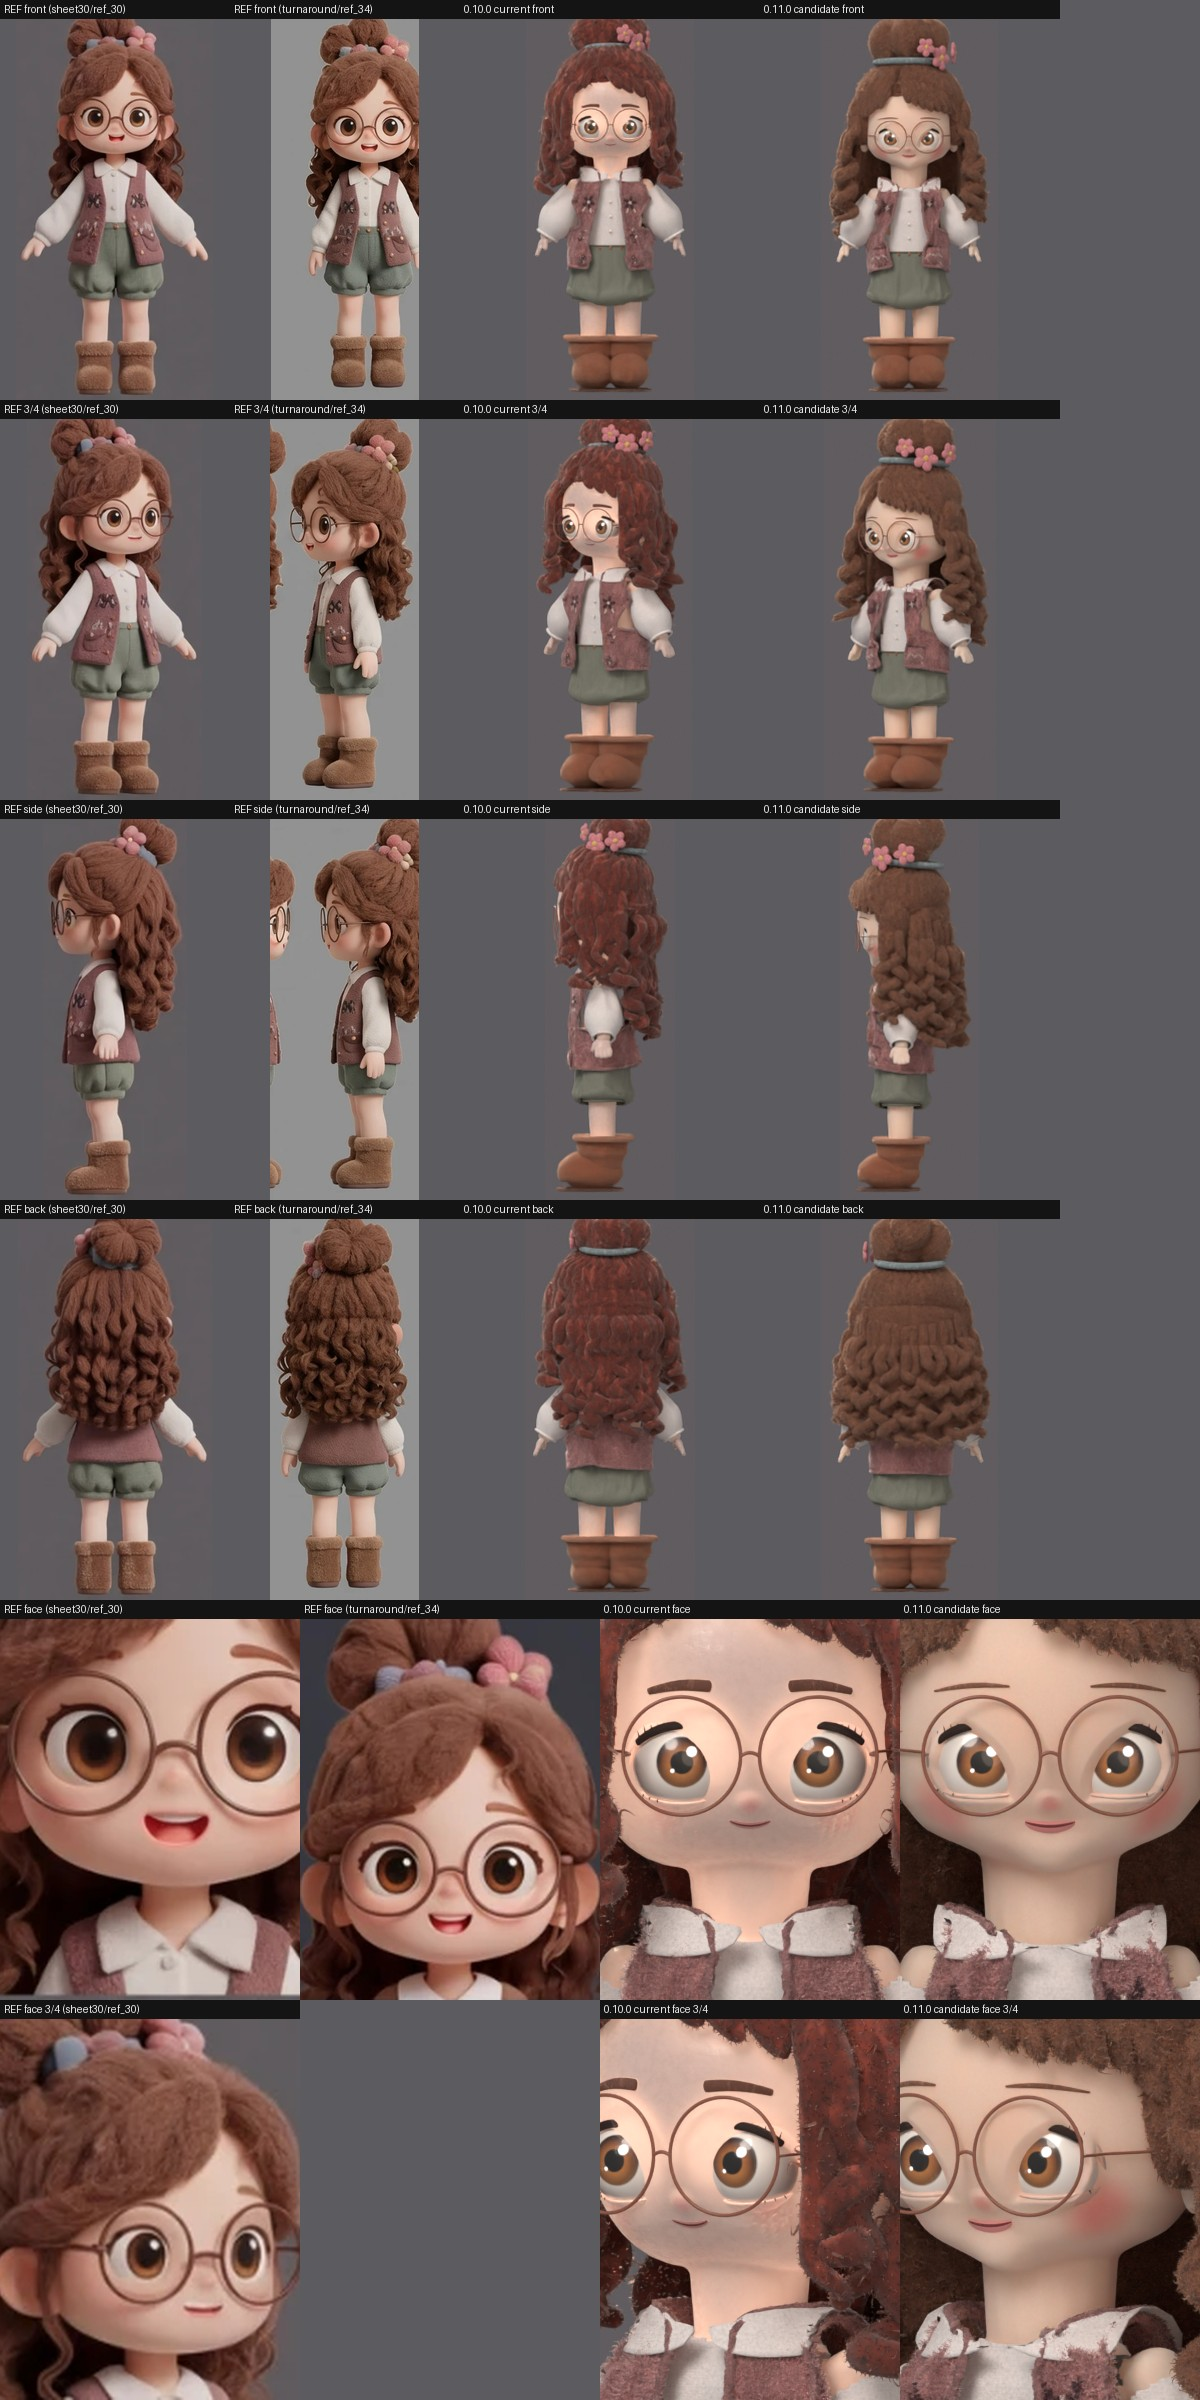
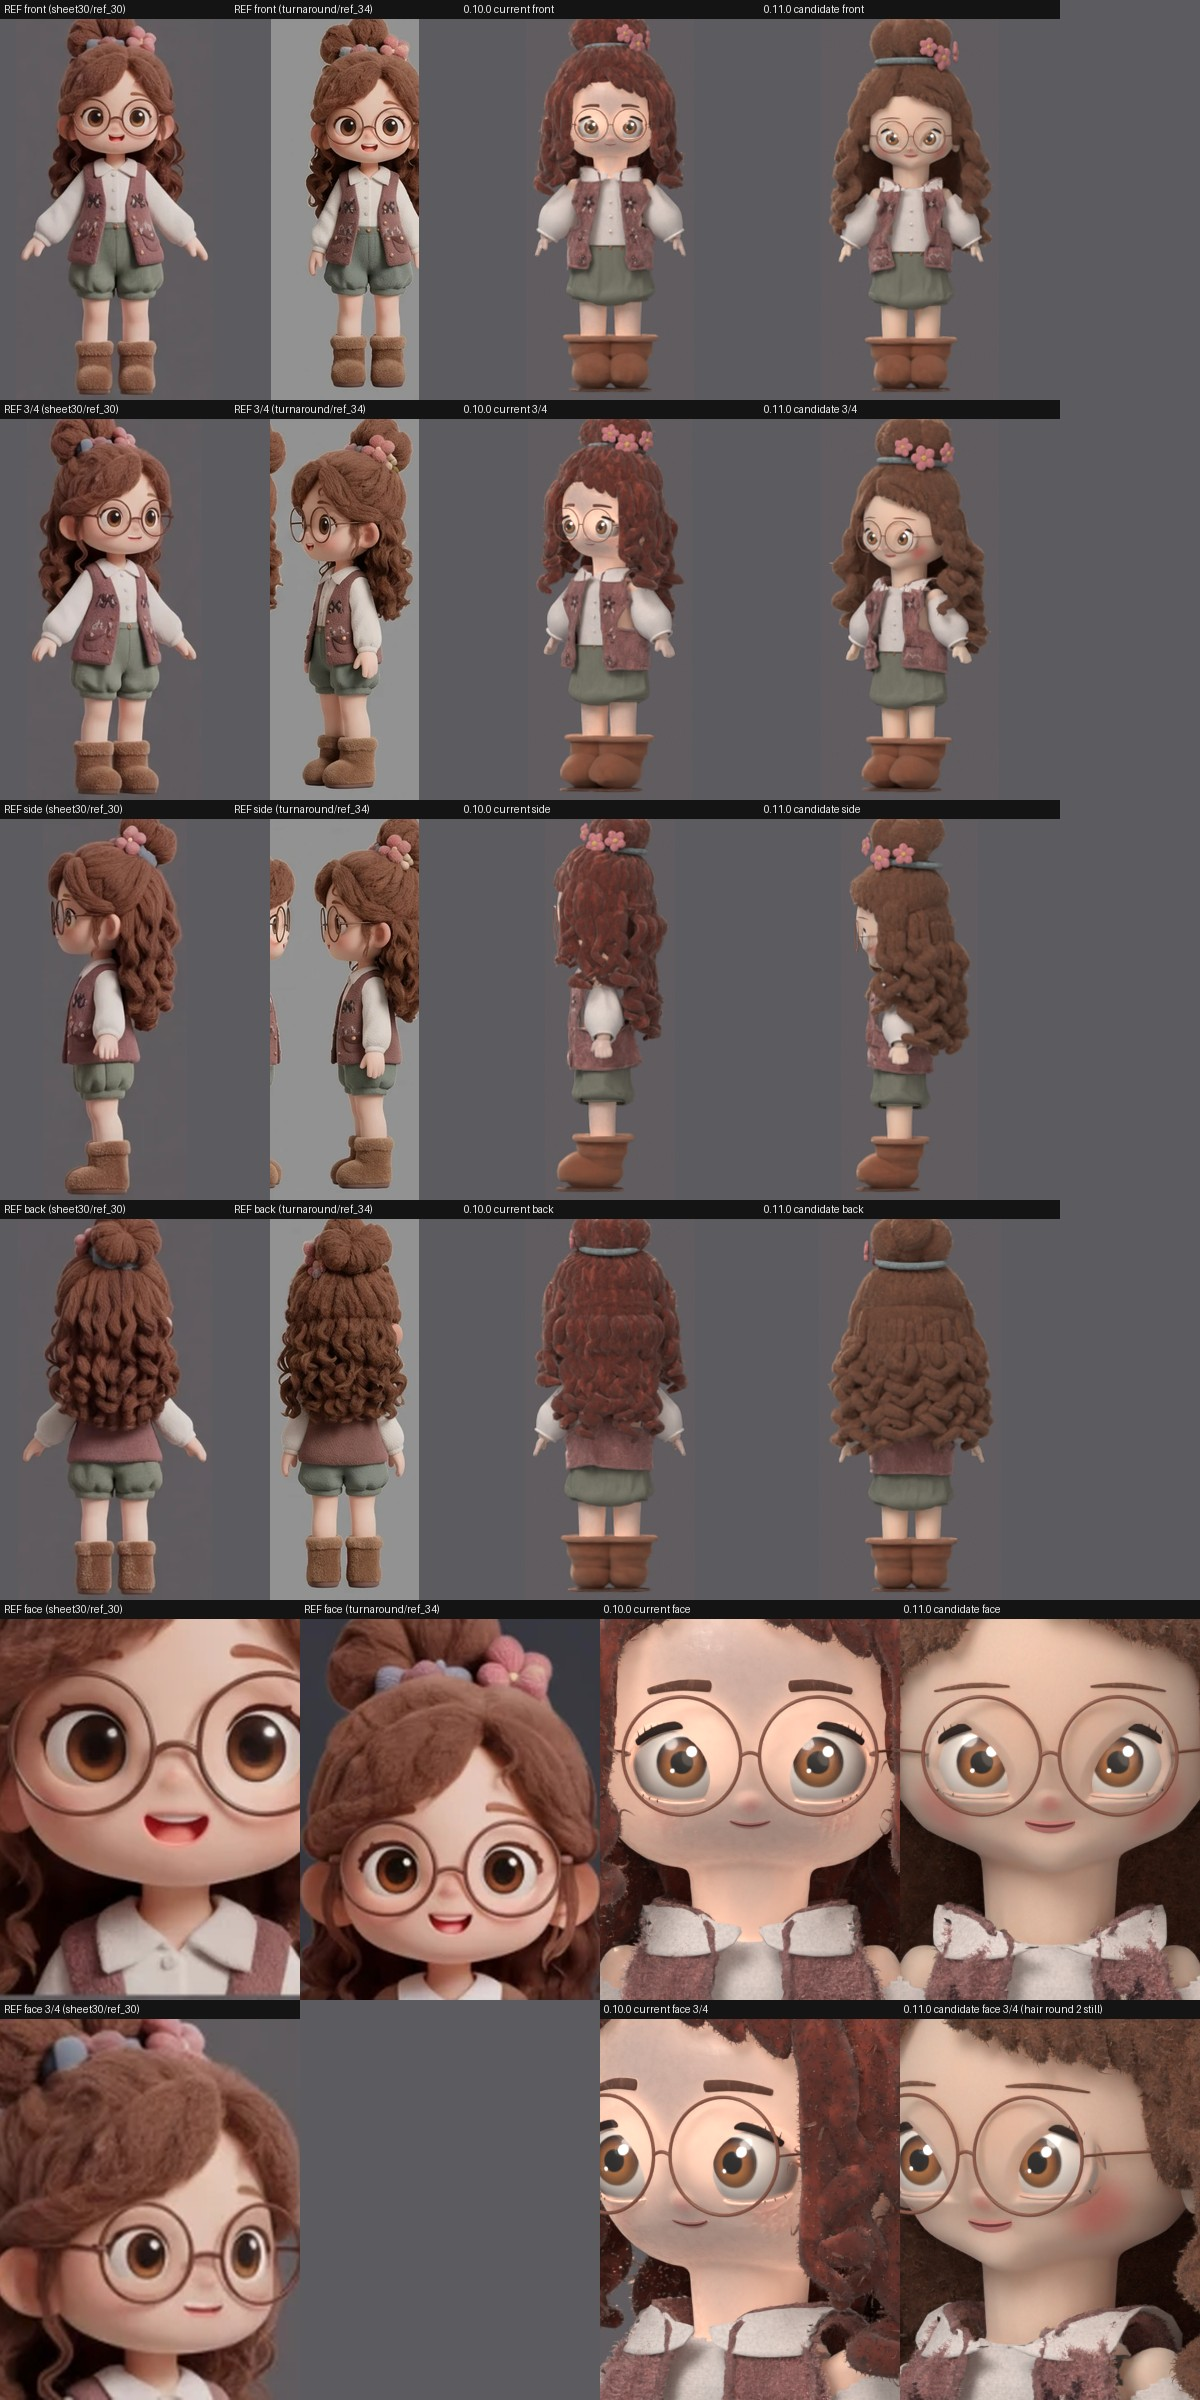
T-081: round-3 hair renders, owner sheet and report update
Claude-Session: https://claude.ai/code/session_01NPjxeKajuS9wU7Awxbsxse

diff --git a/docs/evaluation/characters/T-081/tools/make_sheet.py b/docs/evaluation/characters/T-081/tools/make_sheet.py
@@ -46,6 +46,7 @@ def label(im, text):
 
 def main():
     cur, new, out = sys.argv[1:4]
+    notes = dict(a.split("=", 1) for a in sys.argv[4:] if "=" in a)  # optional <shot>=<label suffix>
     turn = Image.open(TURN)
     tw = turn.width / 6.0  # girl row: bottom third, six columns (front, back-left, left, right, front-right, back)
     girl_row = [turn.crop((int(i * tw), 1330, int((i + 1) * tw), 2000)) for i in range(6)]
@@ -69,7 +70,7 @@ def main():
             im = Image.open(p) if os.path.exists(p) else None
             if im is not None and shot.startswith("body"):
                 im = autocrop(im)
-            row.append(label(fit(im, w=300) if im is not None else Image.new("RGB", (H, H), (60, 0, 0)), f"{tag} {name}"))
+            row.append(label(fit(im, w=300) if im is not None else Image.new("RGB", (H, H), (60, 0, 0)), f"{tag} {name}" + (f" {notes[shot]}" if tag.startswith("0.11") and shot in notes else "")))
         tiles.append(row)
     w = max(sum(t.width for t in r) for r in tiles)
     sheet = Image.new("RGB", (w, H * len(tiles)), (92, 92, 96))

diff --git a/docs/evaluation/characters/T-081/README.md b/docs/evaluation/characters/T-081/README.md
@@ -7,7 +7,7 @@ geometry iteration only; they are not evidence.
 
 ## 1. Objective
 A new girl version `0.11.0` that combines every approved improvement: face v2 with the fitted head, skin presets/2,
-hair v3 round 2, vest details and the personality profile. It also fixes the sharp cheek folds and applies the T-059
+hair v3 round 3 (T-079; the Supervisor asked for it in place of round 2), vest details and the personality profile. It also fixes the sharp cheek folds and applies the T-059
 targets the systems now allow. Approved 0.10.0 stays unchanged and stays the current version.
 
 ## 2. Result
@@ -27,10 +27,17 @@ Rows:
 - face close-up. References: the ref_30 "Neutral" tile and the ref_34 "Neutral" tile.
 - face 3/4. Reference: the ref_30 front-left view.
 
-Single stills: `renders/0.10.0/*.jpg` and `renders/0.11.0/*.jpg`. Both versions were rendered the same way: 400 px,
+Single stills: `renders/0.10.0/*.jpg` and `renders/0.11.0/*.jpg` (round-3 hair). Both versions were rendered the same way: 400 px,
 16 spp, orthographic, with `tools/render_views.py`.
 
-**Cycles stills used: 19 of 24.** That is 1 iteration close-up, 12 sheet stills (6 per version) and 5 fidelity views.
+**Cycles stills used: 24 of 24.**
+- 1 iteration close-up.
+- 12 sheet stills with hair round 2 (6 per version).
+- 5 fidelity views (round 2).
+- 5 round-3 stills for 0.11.0: 4 body views and the face front.
+
+The 0.11.0 **face 3/4 tile is the round-2 still** (labelled on the sheet); the budget had no still left for it.
+The round-2 stills of 0.11.0 are kept in `renders/0.11.0_hair_round2/`.
 
 ## 4. Files changed
 | Path | Purpose |
@@ -54,7 +61,7 @@ Merge order, later wins:
 3. T-065 `girl_next_face2.override`
 4. T-066 `girl_auburn_bun_glasses.skin2.override`
 5. T-068 `girl.vest_details.override`
-6. T-070 `girl.hair_v3.json` (its `overrides`)
+6. T-079 round-3 `girl.hair_v3.json` (its `overrides`), from branch `t-079-claude-hair-v3-r3@7d3c424`, which is not yet in staging. It is copied byte-for-byte to `inputs/girl.hair_v3_r3.json`; identical at 860f855 and 7d3c424.
 7. the T-081 choices
 
 The result is written by `tools/make_spec.py`.
@@ -62,7 +69,7 @@ The result is written by `tools/make_spec.py`.
 - **Why a complete `.spec.json`, not an override:** `spec.deep_merge` can only add or replace keys. The base spec's
   groom/1 hair has dynamics entries for structures that groom/2 no longer has (`temple_puffs`, `side_curls`, …).
   groom/2 validation rejects them, so an override on top of the base cannot build. The hair section is therefore
-  replaced as a whole by the T-070 hair, keeping the descriptive `components`.
+  replaced as a whole by the T-079 hair, keeping the descriptive `components`.
   - `fidelity_baseline.json`-style use: `build` = the 0.11.0 spec, no overrides.
 - **Generator pins:**
   - `body_generic/2`, `face_generic/2`, `groom/2`, `garment/1`, `accessories/1`, `rigify_human/1`, `export/4`.
@@ -78,7 +85,7 @@ The result is written by `tools/make_spec.py`.
 | rest mouth | 0.10.0 `closed_smile` (frown −4.2 mm) vs T-065 `soft_smile` + rest_mix (MouthSmile 0.35, CheekRaise 0.8, frown −2.5 mm) | **soft_smile** (lips closed, no teeth/tongue; MouthWide 0) | owner decision "closed gentle smile at rest **with lifted cheeks**"; T-059 asks for cheeks lifted at rest; ref_34 Neutral |
 | skin occlusion | T-065 lift 0.35 / bleed 0.2 vs T-066 lift 1.1 to warm (248,210,190) / bleed 0 | **T-066** | T-066 is the approved skin family and is non-emissive (no glowing creases) |
 | blush | 0.9.0/T-065 vs T-066 | **T-066** (warmer, lower, out from the rims) | ref_30/ref_34 blush below the glasses rims |
-| hair | base groom/1 vs T-070 groom/2 round 2 | **T-070 round 2** in full | task (round 3, T-079, follows as 0.11.1) |
+| hair | base groom/1 vs T-070 round 2 vs T-079 round 3 | **T-079 round 3** in full | Supervisor message 2026-11-18 (owner rule: latest, most reference-faithful): swept soft fringe, more varied ringlets |
 | eyes | base vs T-065 | **T-065** (protrusion 4 mm, scale y 0.8, socket); iris **brown** (128, 74, 38) kept | owner decision |
 | vest | 0.9.0 embroidery flowers vs T-068 | **T-068** patch pockets + cross-stitch decals | #41 vest construction sheet |
 
@@ -128,7 +135,7 @@ the eye's sides.
 | `python3 pipeline/charsys/tests/test_face_v2_socket_wall.py --blender <bpy wrapper> --girl011 <0.11.0 master>` | **ALL PASS 12/12**: pins; brown iris; soft_smile rest with MouthWide 0 and CheekRaise > 0; personality 1.0.0 referenced; 0.11.0 not current; no other spec uses the new options; wall smoothing ran (9354 vertices); upper shells ≤ 8 % visible; cheek max 22.2°, corner max 40.3° (≤ 45°) |
 | `python3 pipeline/charsys/tests/test_skin_presets.py` | PASS 24/24 (the approved versions still name no presets/2 id) |
 | full build `build_character.py --spec …0.11.0.spec.json` (with GLB) | OK. Pins as §5.1; hair report without warnings |
-| fidelity `tools/fidelity/run.py` (640 px, 32 spp, as the baseline) | 0.11.0 **62.81**; baseline 0.10.0 **64.40** (−1.6, inside the 2-point policy; see §7) |
+| fidelity `tools/fidelity/run.py` (640 px, 32 spp, as the baseline) | **scored with hair round 2, not re-run for round 3 (no still budget left)**: 0.11.0 **62.81**; baseline 0.10.0 **64.40** (−1.6, inside the 2-point policy; see §7) |
 | `python3 tools/check_all.py --base origin/staging --task T-081 --blender <bpy wrapper>` | see §6.1 |
 
 Fidelity parts (0.11.0 vs 0.10.0 overall):
@@ -143,7 +150,7 @@ Ranked differences (fidelity/report.md):
 - arms short;
 - blouse and vest silhouettes smaller.
 
-The hair items come from the approved T-070 round 2; T-079 round 3 changes the girl hair. The body proportion items
+The hair items were measured on round 2. Round 3 (now in 0.11.0) changes the girl hair: T-079 reports face visibility ≥ round 2 in every view. A fidelity re-score of round 3 needs 5 more stills. The body proportion items
 are older and unchanged here.
 
 ### 6.1 Gate
@@ -176,8 +183,7 @@ T-065 boy, girl and third-character candidates, which do not set the new options
 - vest: patch pockets and cross-stitch decals.
 
 **Remaining differences:**
-1. **Fringe missing.** The forehead is bare in front and 3/4; the references have a side-swept fringe to the brows.
-   This is the T-070 round-2 hair; T-079 round 3 (girl swept fringe) follows as 0.11.1.
+1. **Fringe.** With the round-3 hair, the temples and sides are fuller. In the front face close-up, though, the forehead is still bare: the swept fringe does not come down over the forehead to the brows the way it does in ref_30 and ref_34. This is hair data (T-079), not this task's face. It may also come partly from the fitted head (`body_generic/2`) sitting differently under the hair keep-out than the head T-079 was tuned on.
 2. **Neck long.** It is wider now, but the head still sits higher above the collar than in sheet30, where the chin
    nearly meets the collar. Shortening it moves the head joint, hair frame and glasses. That is a body-proportion
    change with rig impact, not done here.
@@ -192,12 +198,15 @@ T-065 boy, girl and third-character candidates, which do not set the new options
 8. **Proportions** (fidelity): legs read long and arms short. These are unchanged from 0.10.0.
 
 ## 8. Problems and questions for the Supervisor
+- **Supervisor messages (2026-11-18, read after the first READY@ec1ce08):**
+  - (1) groom/2 export IndexError: the round-3 0.11.0 master exports with `export_engine.py` (rc 0, `character.json` + `geometry.bin`), so I did not need the T-078 cleanup workaround.
+  - (2) Round-3 hair: done, see §5.1. The gate in §6.1 ran on the round-2 spec. Round 3 changes only the 0.11.0 hair data, which no approved version uses, plus the copied input file. The T-081 test was re-run on the round-3 master: 12/12.
 - **Guarded path:** the new `pipeline/charsys/tests/test_face_v2_socket_wall.py` needs the `Supervisor-Approved:` trailer.
 - **`presets/2` is not registered** (T-080 registers it). 0.11.0 pins `presets/1` and uses the skin-felt/2 id; switch
   the pin once it is registered.
 - **0.11.0 is a complete spec, not an override** (§5.1). If the layout must be an override, `spec.deep_merge` needs a
   delete marker (shared code; not in this write-set).
-- **Fidelity is 1.6 points below the 0.10.0 baseline**, mostly in the hair and silhouette metrics (T-070 hair). The
+- **Fidelity (round 2) is 1.6 points below the 0.10.0 baseline**, mostly in the hair and silhouette metrics (T-070 hair). The
   visual comparison favours 0.11.0. The owner decides, as with T-070 ("visual fidelity over scores").
 
 ## 9. Commits
